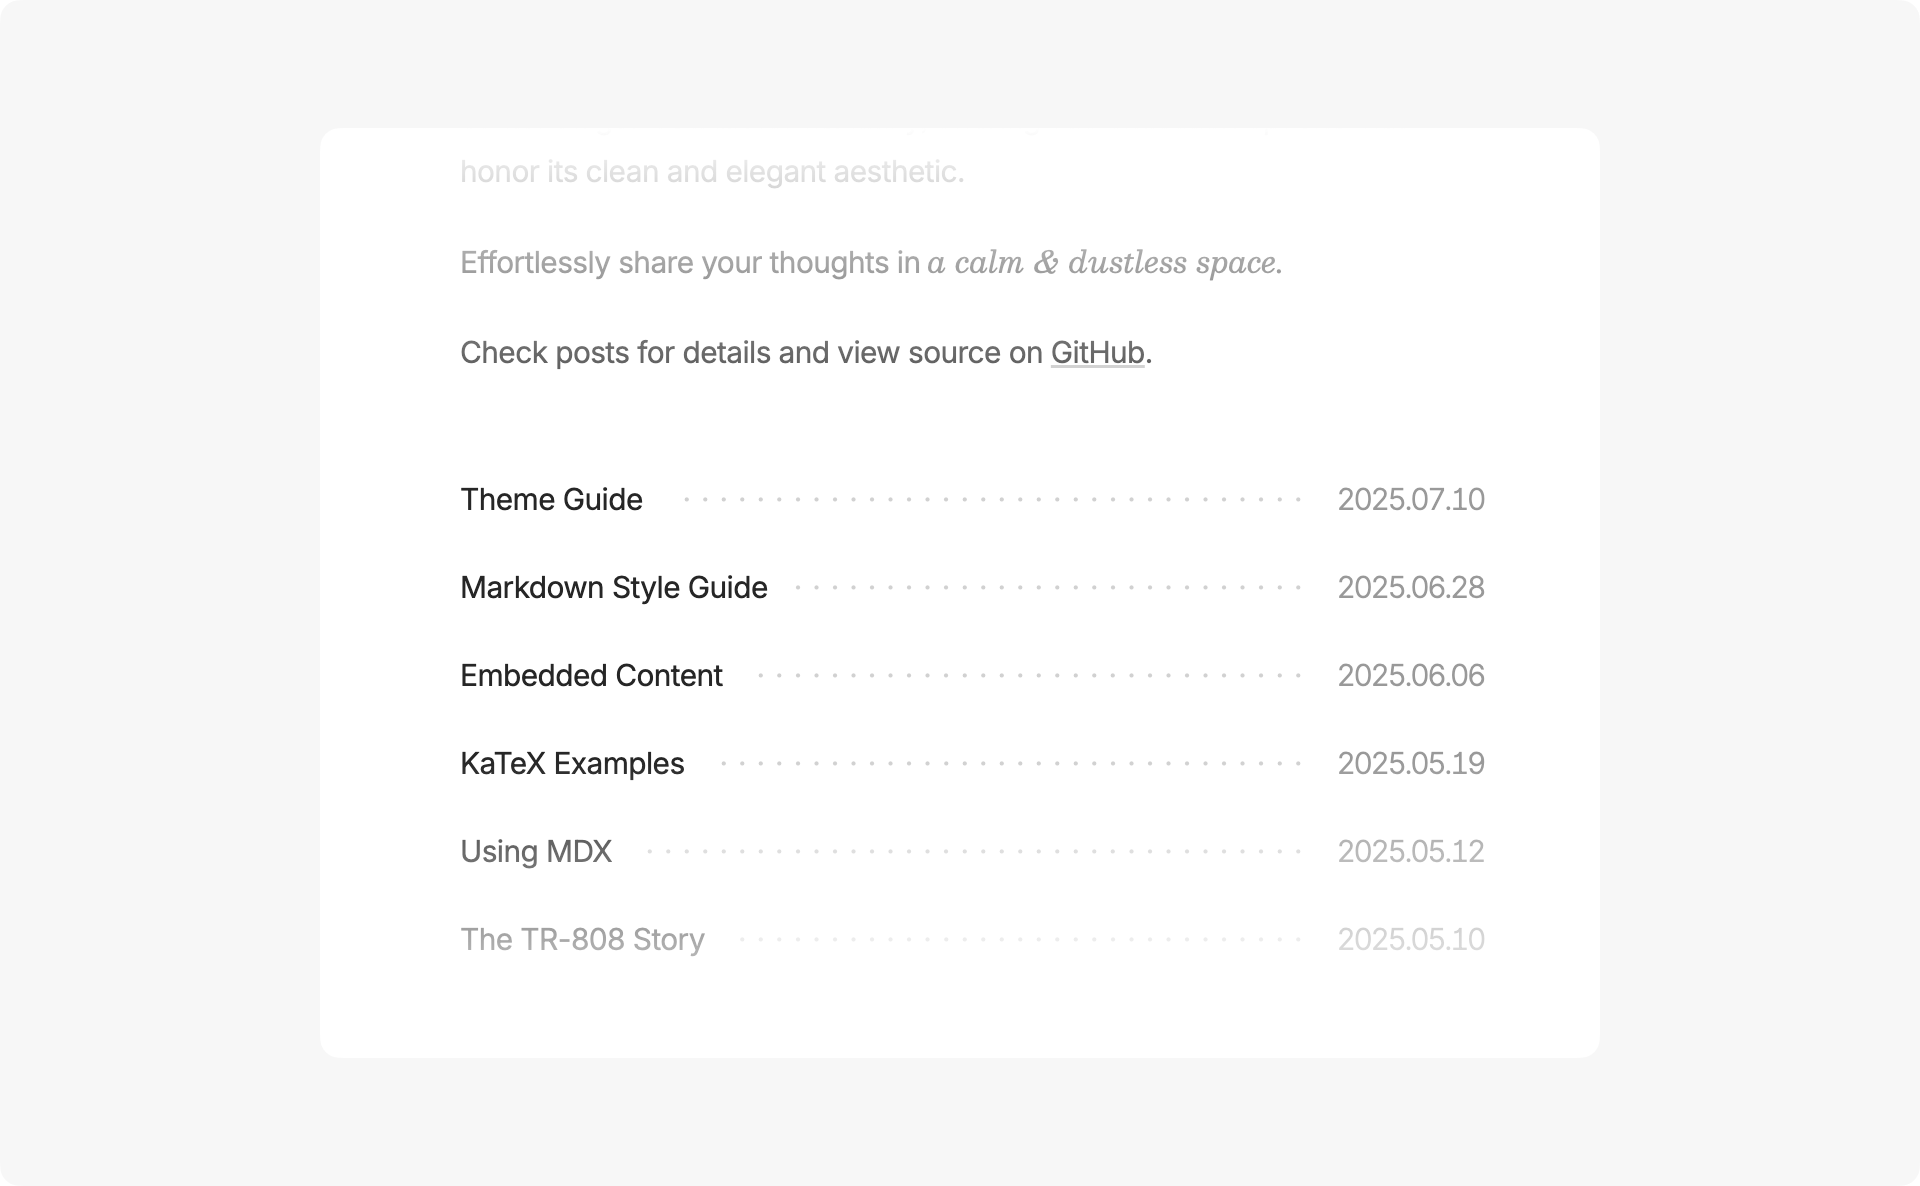
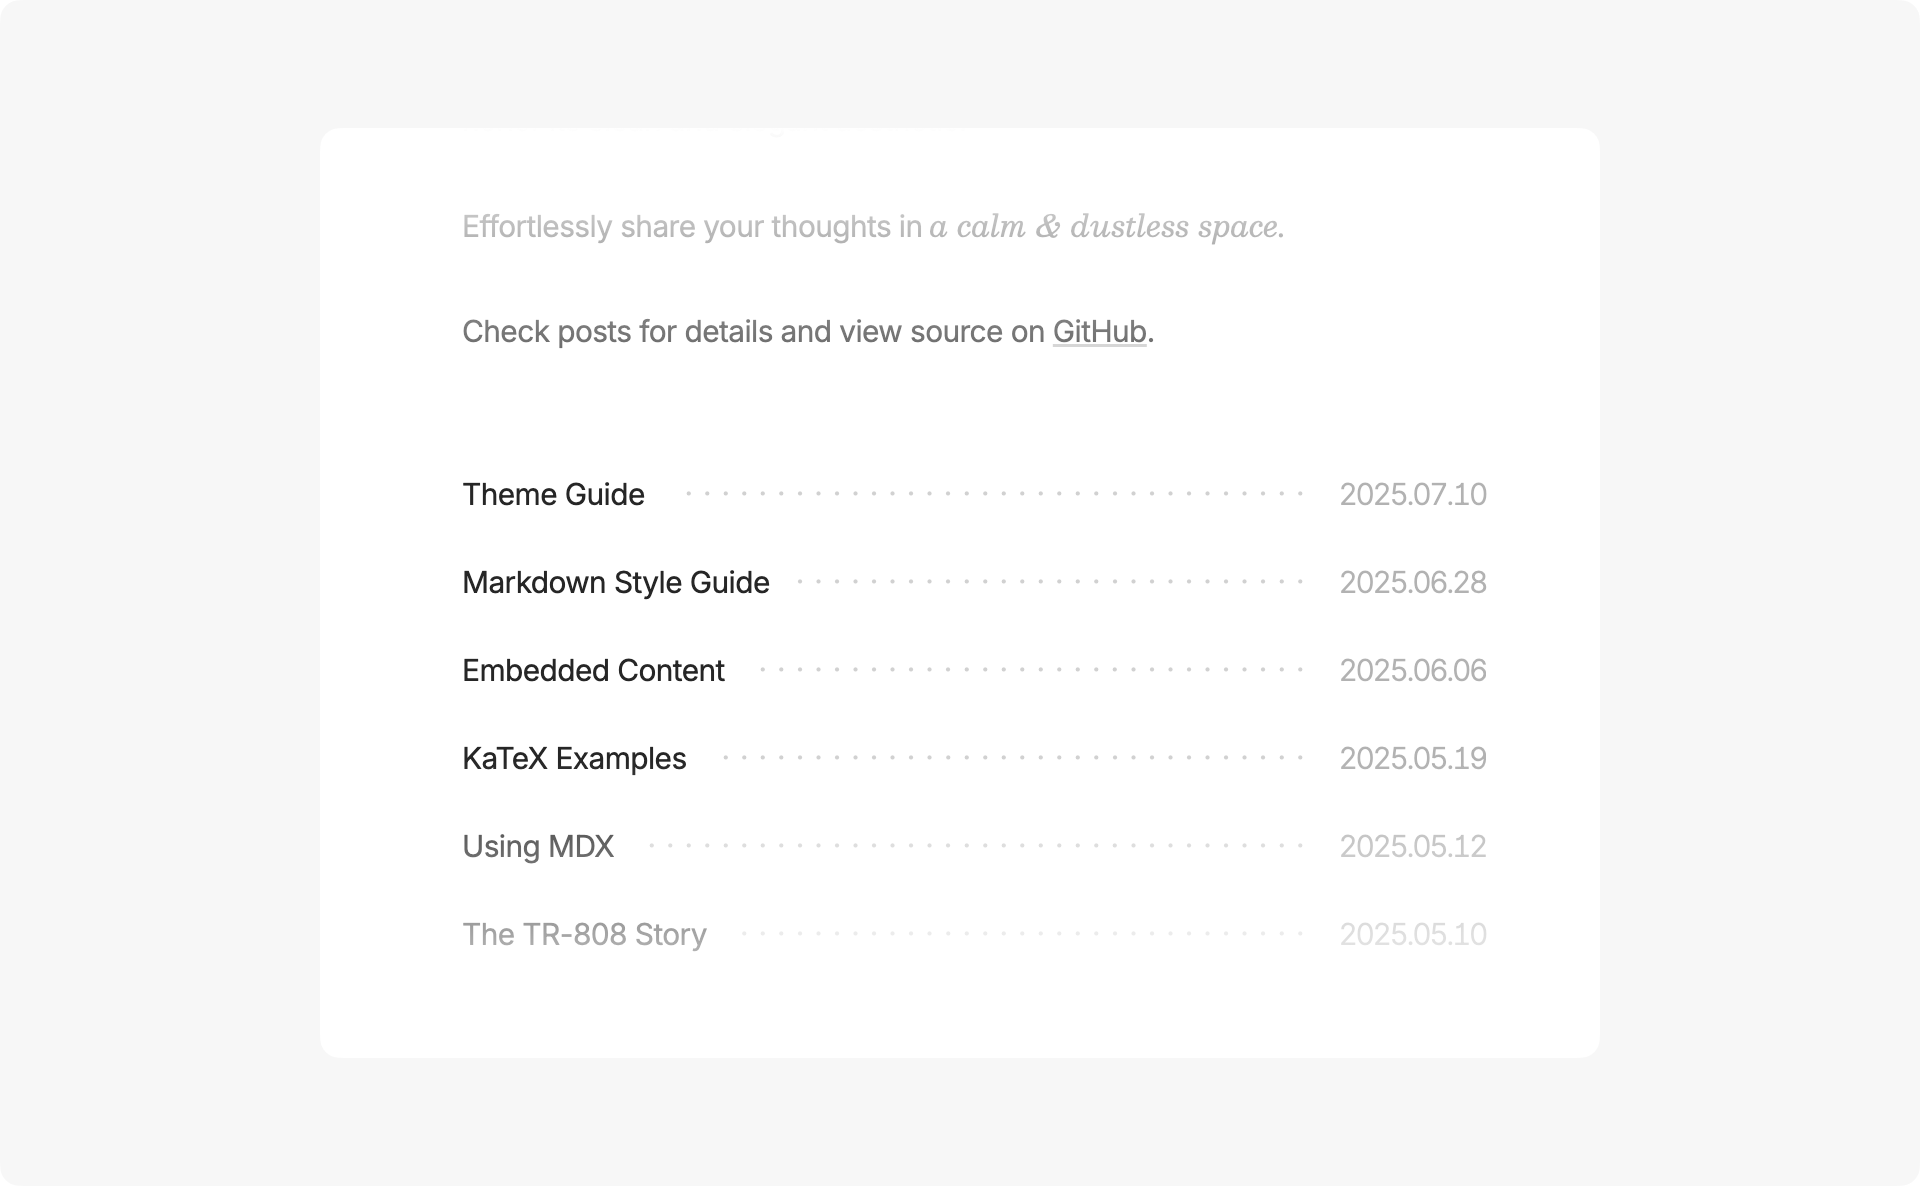
style: tweak spacing

diff --git a/src/styles/global.css b/src/styles/global.css
@@ -129,7 +129,7 @@ body {
 
 @media (max-width: 768px) {
   body {
-    padding: 3.5rem 1.35rem 1.35rem 1.35rem;
+    padding: 4rem 1.35rem 1.35rem 1.35rem;
   }
 }
 
